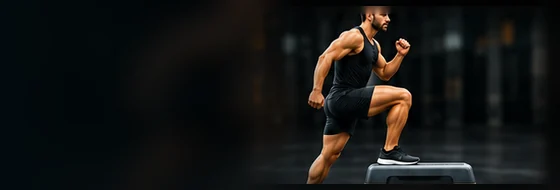
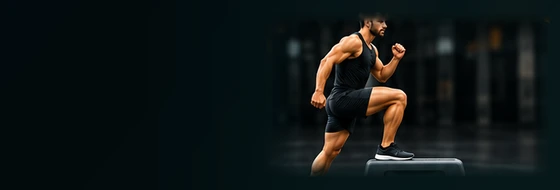
Add files via upload

diff --git a/sw.js b/sw.js
@@ -1,9 +1,10 @@
+// v125 : recadrage HIIT global, 24 images + 3 categories, autres fonctionnalités inchangées.
 // v123 : HIIT V2, 24 bandeaux illustrés et sélection visuelle. Historique, Musculation et GPS conservés.
 // v122 : intégration HIIT dans Musculation, 3 catégories, 24 exercices et créateur de séances.
 // Ma Bibliothèque — temporisation Circuit Training 2 secondes (V120).
 // Ma Bibliothèque — lien Historique depuis le menu Musculation.
 // v119 : navigation vers l’historique réel, cache actualisé ; séances et sons conservés.
-const CACHE = "ma-bibliotheque-v124";
+const CACHE = "ma-bibliotheque-v125";
 const CORE = [
   "./", "./index.html", "./styles.css", "./app.js", "./data.json",
   "./manifest.json", "./icon-192.png", "./icon-512.png",
